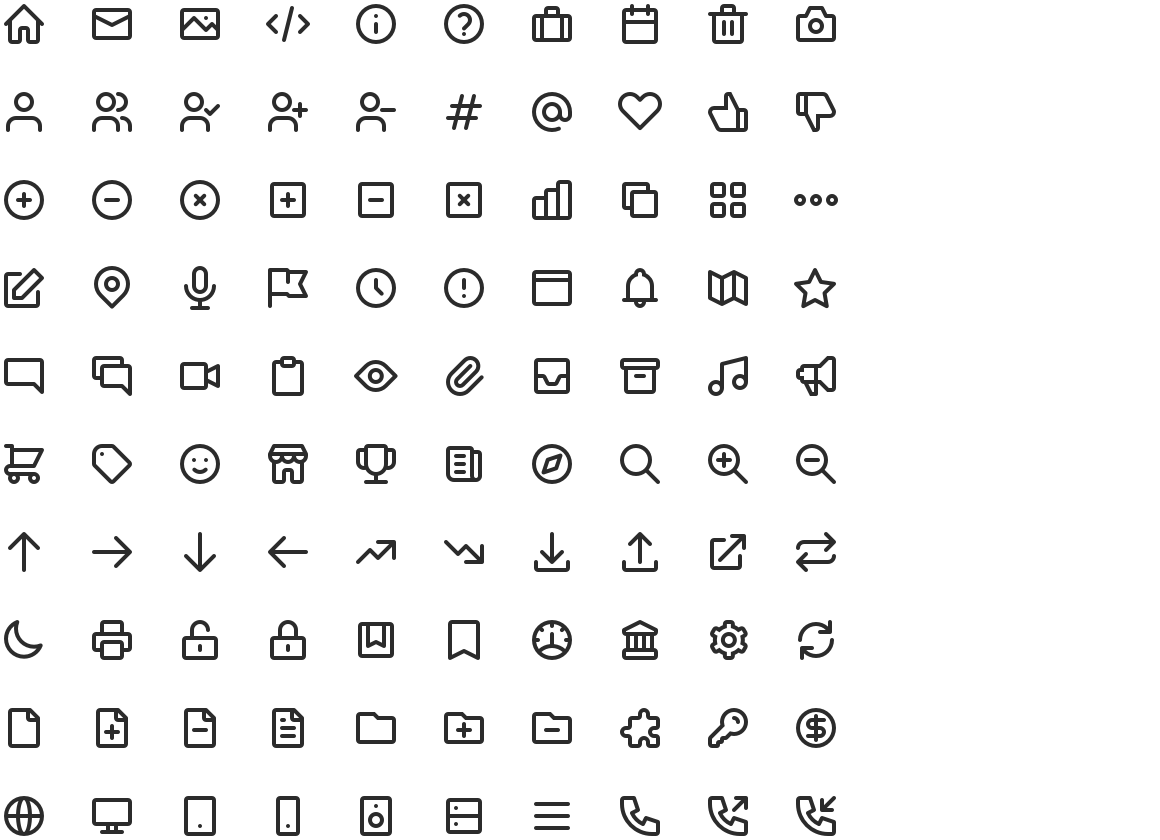
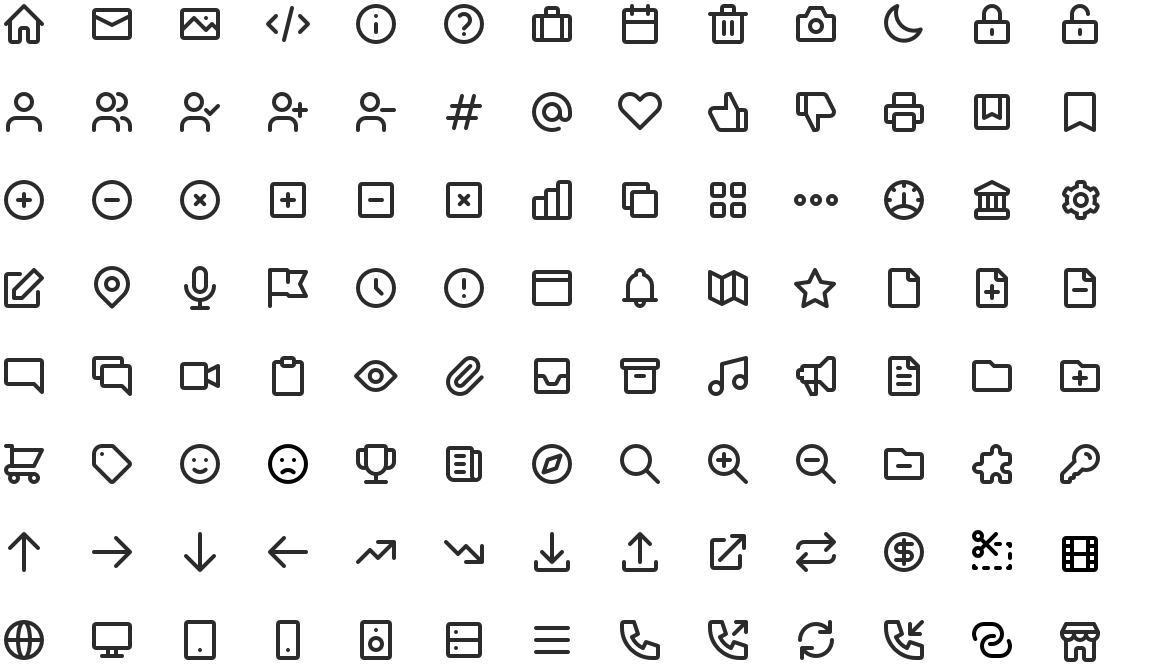
Build for production

diff --git a/build_production/2018/01/04/introducing-heroicons-ui/index.html b/build_production/2018/01/04/introducing-heroicons-ui/index.html
@@ -52,7 +52,7 @@
             <p><img src="/img/180104-heroicons-ui/icons.png" alt="Heroicons UI" /> </p>
 <p>Heroicons UI make the perfect fit for any in-app UI. Their soft edges and consistent 2 pixel stroke give them a friendly pesonality that work great for both professional and playful UI's.</p>
 <p>I’ve been working on this set for a while and decided to make them available for free under the <a href="https://creativecommons.org/licenses/by/2.0/ca/" target="_blank">CC BY 4.0 license</a>.</p>
-<p>Each icon in this set of 100 glyphs is designed in a 24 x 24 pixel grid and maintain a consistent visual proportion when next to each other.</p>
+<p>Each icon in this set of 104 glyphs is designed in a 24 x 24 pixel grid and maintain a consistent visual proportion when next to each other.</p>
 <p><a href="https://github.com/sschoger/heroicons-ui" target="_blank">Get the icons on Github</a></p>
 <p>I plan to continue growing this set so feel free to sign up below to get notified when updates are available.  </p>
 <div class="">
